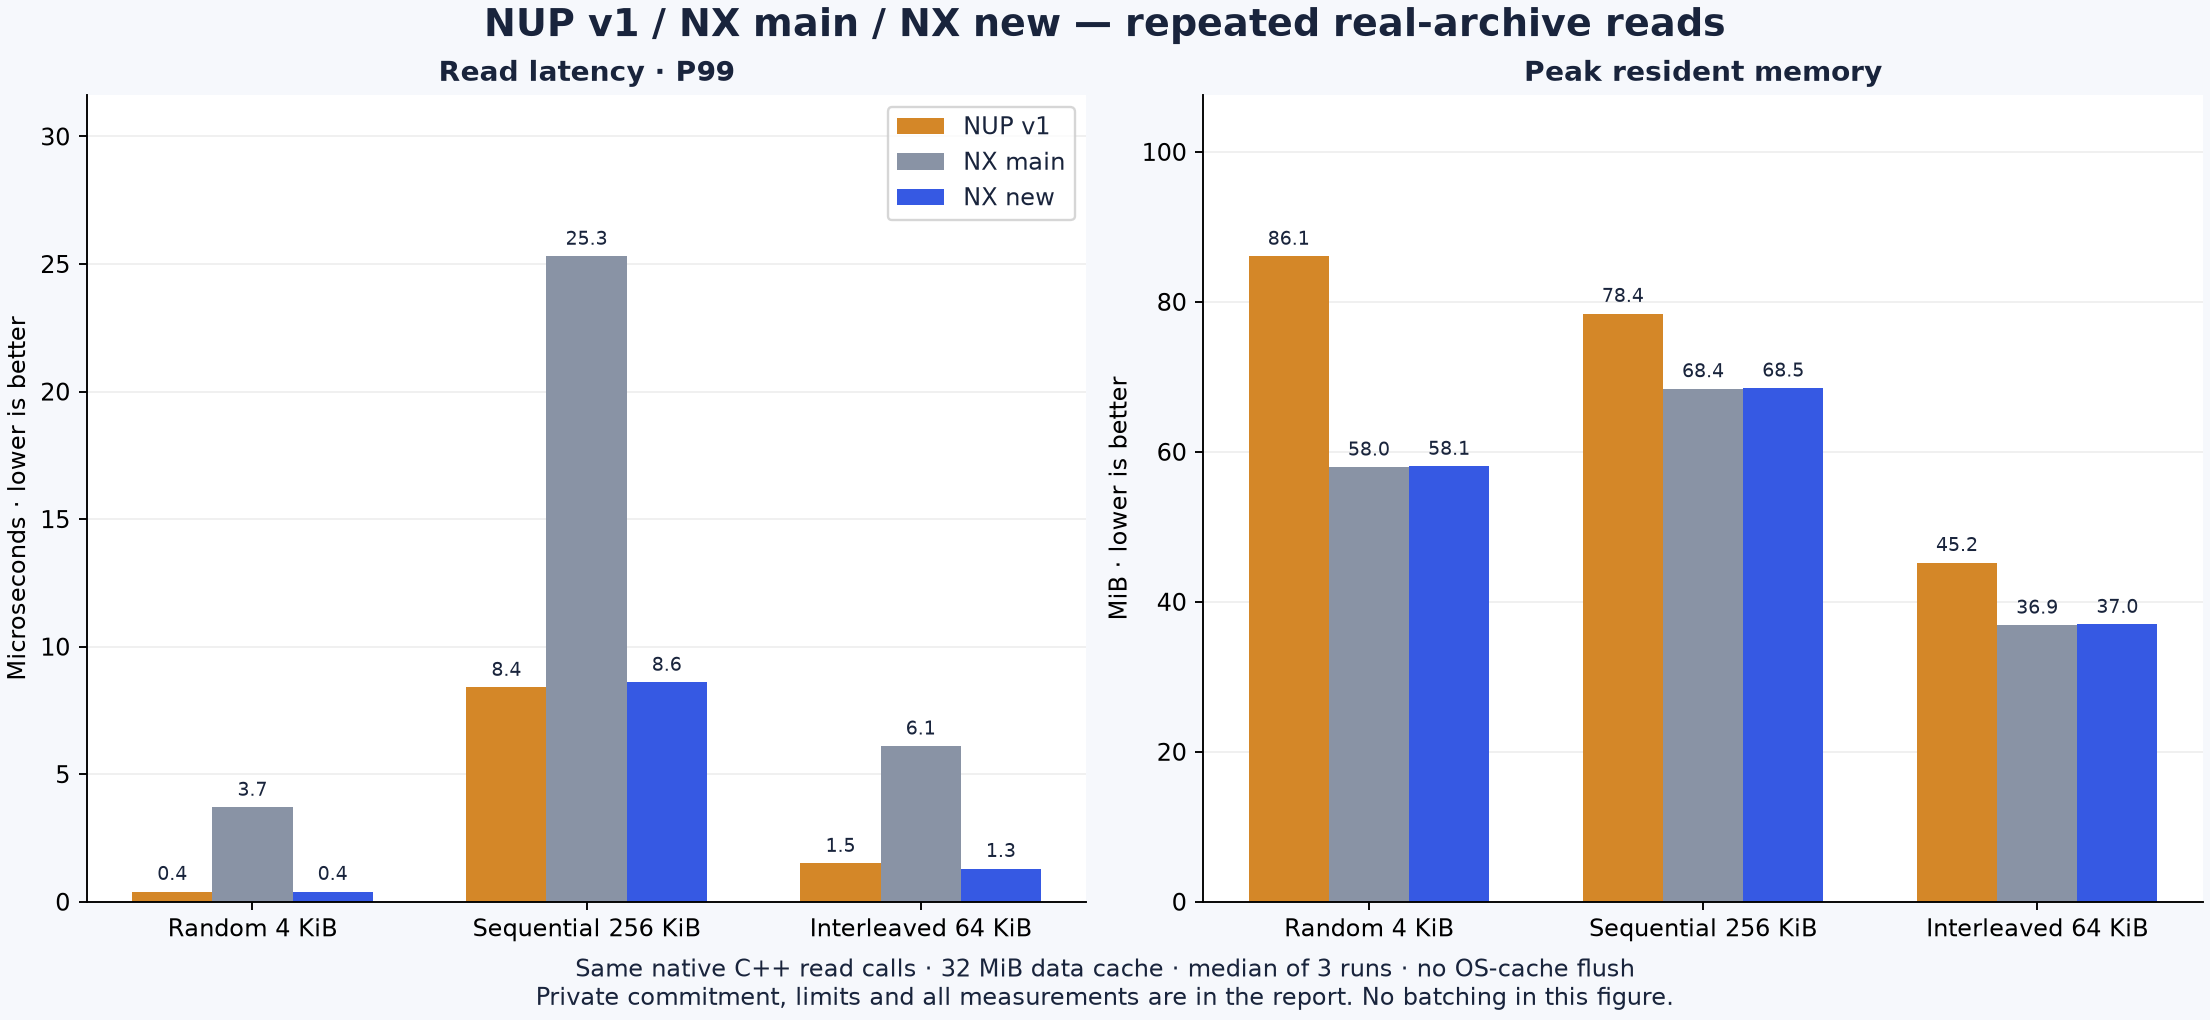
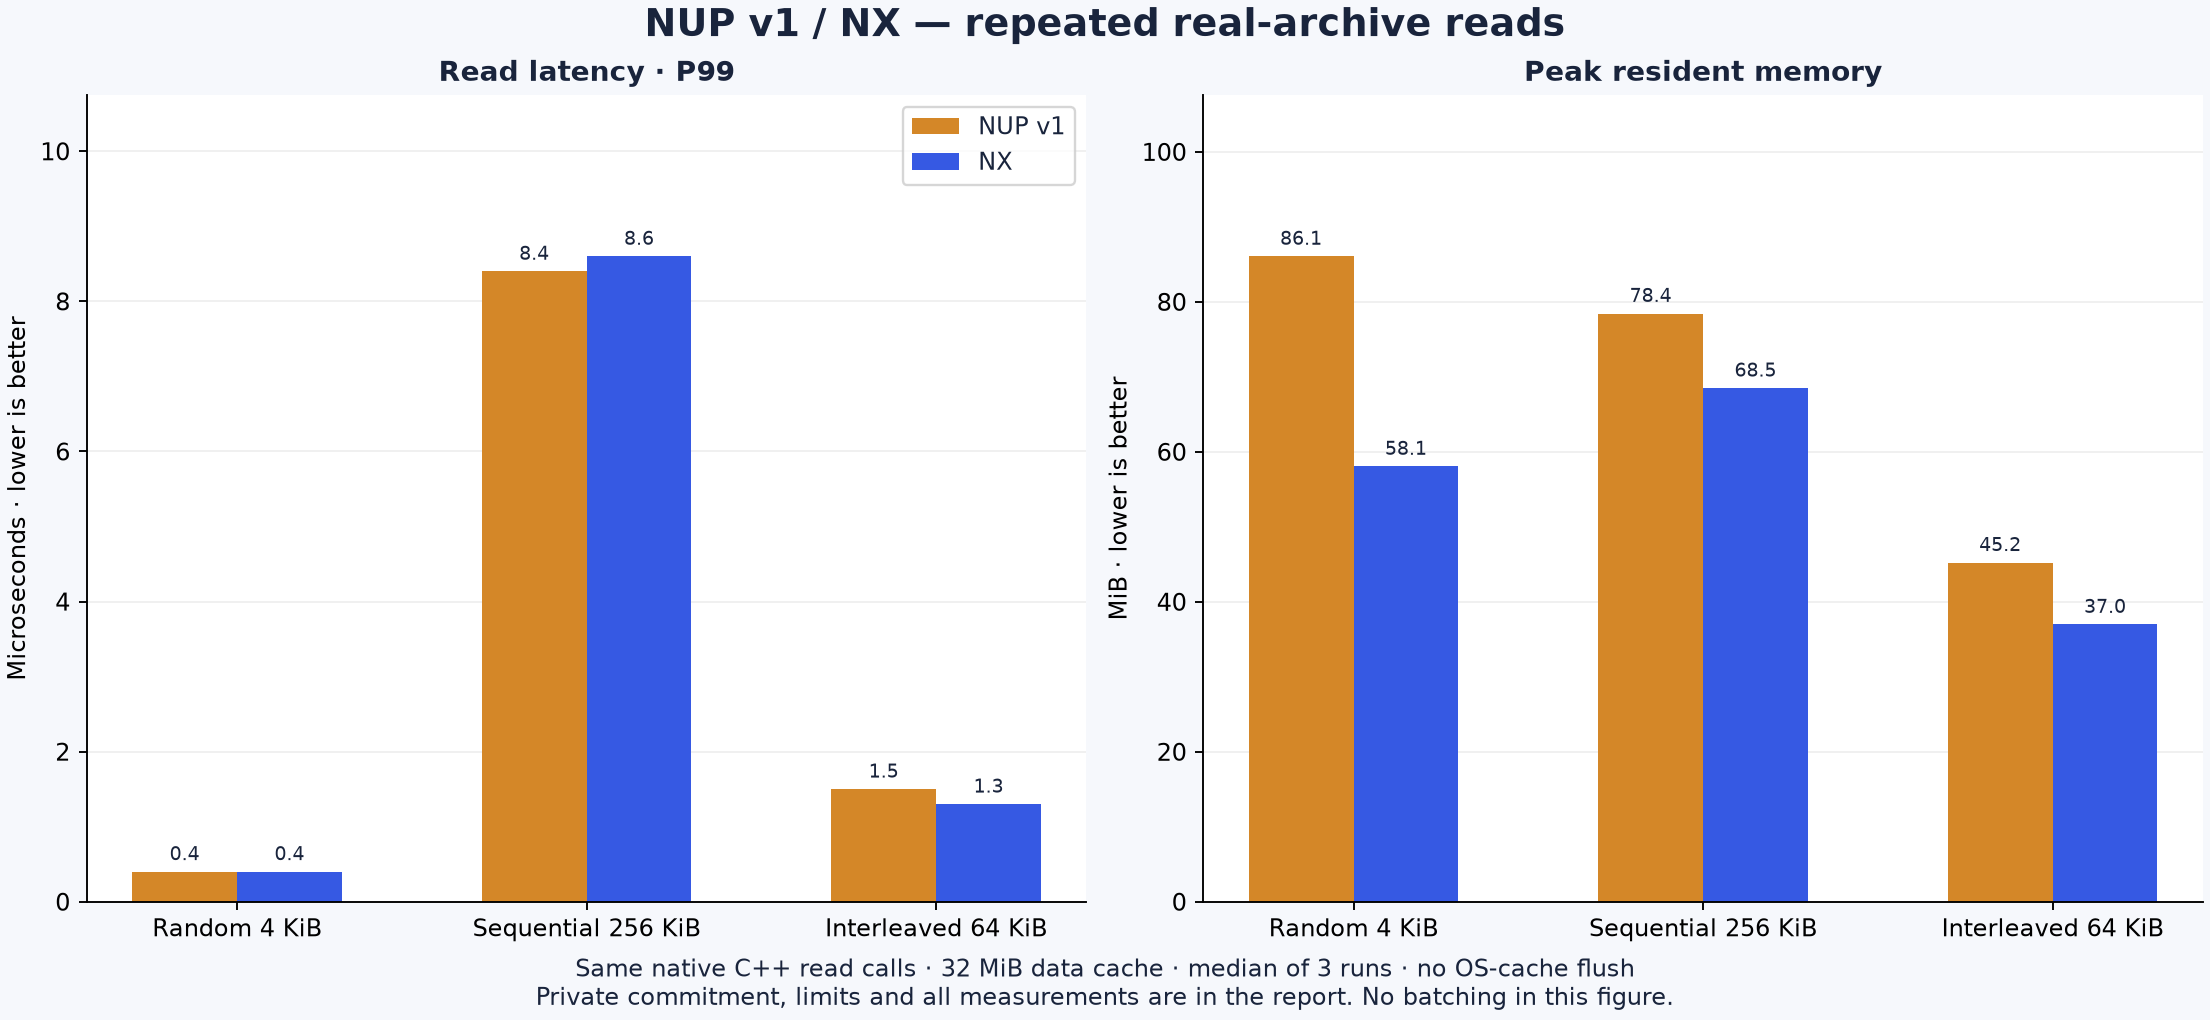
Present README charts as NUP v1 versus NX

diff --git a/benchmarks/publish_native_three_way.py b/benchmarks/publish_native_three_way.py
@@ -150,32 +150,32 @@ no emulator source, benchmark binary or game content is vendored in releases.
  plt.rcParams.update({'font.family':'DejaVu Sans','font.size':10,'text.color':'#19243C','axes.spines.top':False,'axes.spines.right':False,'figure.facecolor':'#F6F8FC','axes.facecolor':'white','savefig.facecolor':'#F6F8FC'})
  fig,axes=plt.subplots(1,2,figsize=(13,6),layout='constrained');scenarios=['random_4096','sequential_32mib','interleaved_8files'];names=['Random 4 KiB','Sequential 256 KiB','Interleaved 64 KiB']
  for ax,field,title,unit in zip(axes,('p99_us','peak_working_set'),('Read latency · P99','Peak resident memory'),('Microseconds','MiB')):
-  for j,(v,label) in enumerate(LABEL.items()):
+  for j,(v,label) in enumerate((('nup_mapped','NUP v1'),('nx_verify_mapped','NX'))):
    values=[get('real_A',sc,32,v)[field]/(2**20 if field=='peak_working_set' else 1) for sc in scenarios]
-   bars=ax.bar([i+(j-1)*.24 for i in range(3)],values,.24,label=label,color=COLORS[j]);ax.bar_label(bars,fmt='%.1f',padding=3,fontsize=8)
+   bars=ax.bar([i+(j-.5)*.3 for i in range(3)],values,.3,label=label,color=[COLORS[0],COLORS[2]][j]);ax.bar_label(bars,fmt='%.1f',padding=3,fontsize=8)
   ax.set_xticks(range(3),names);ax.set_title(title,fontweight='bold');ax.set_ylabel(unit+' · lower is better');ax.grid(axis='y',alpha=.2);ax.set_axisbelow(True);ax.margins(y=.25)
- axes[0].legend();fig.suptitle('NUP v1 / NX main / NX new — repeated real-archive reads',fontsize=16,fontweight='bold');fig.supxlabel('Same native C++ read calls · 32 MiB data cache · median of 3 runs · no OS-cache flush\nPrivate commitment, limits and all measurements are in the report. No batching in this figure.',fontsize=10);fig.savefig(out/'native-sdk-comparison.png',dpi=170);plt.close(fig)
+ axes[0].legend();fig.suptitle('NUP v1 / NX — repeated real-archive reads',fontsize=16,fontweight='bold');fig.supxlabel('Same native C++ read calls · 32 MiB data cache · median of 3 runs · no OS-cache flush\nPrivate commitment, limits and all measurements are in the report. No batching in this figure.',fontsize=10);fig.savefig(out/'native-sdk-comparison.png',dpi=170);plt.close(fig)
  fig,axes=plt.subplots(2,2,figsize=(13,8),layout='constrained');plotcases=[('first_touch4k',128,False,'8 first accesses · 4 KiB'),('random4k',128,True,'512 scattered reads · all files fit'),('sequential64k',32,False,'Sequential 32 MiB · initial'),('sequential64k',32,True,'Sequential 32 MiB · primed')]
  for ax,(sc,budget,warm,title) in zip(axes.flat,plotcases):
-  vals=[bg(sc,budget,warm,v)['service_ms'] for v in ('nup','main','selective')]
-  bars=ax.barh([0,1,2],vals,color=COLORS);ax.set_yticks([0,1,2],['NUP v1','NX main','NX new · selective']);ax.invert_yaxis()
+  vals=[bg(sc,budget,warm,v)['service_ms'] for v in ('nup','selective')]
+  bars=ax.barh([0,1],vals,color=[COLORS[0],COLORS[2]]);ax.set_yticks([0,1],['NUP v1','NX']);ax.invert_yaxis()
   ax.bar_label(bars,labels=[f'{v:.4f}' if v<1 else f'{v:.2f}' for v in vals],padding=5)
-  ax.set_xlim(0,max(vals)*1.25);ax.set_xlabel('Total read service · ms · lower is better');ratio=max(vals[0],vals[2])/min(vals[0],vals[2]);winner='NX new' if vals[2]<vals[0] else 'NUP v1';other='NUP v1' if vals[2]<vals[0] else 'NX new'
+  ax.set_xlim(0,max(vals)*1.25);ax.set_xlabel('Total read service · ms · lower is better');ratio=max(vals[0],vals[-1])/min(vals[0],vals[-1]);winner='NX' if vals[-1]<vals[0] else 'NUP v1';other='NUP v1' if vals[-1]<vals[0] else 'NX'
   gain=f'{ratio:.0f}' if ratio>=100 else f'{ratio:.1f}'
   ax.set_title(title+'  /  '+str(budget)+' MiB cache'+'\n'+winner+' ~'+gain+'× faster than '+other,fontsize=11,fontweight='bold');ax.grid(axis='x',alpha=.2);ax.set_axisbelow(True)
- fig.suptitle('Native readers with 16 already-pending requests',fontsize=17,fontweight='bold');fig.supxlabel('Median of 5 runs · NX new uses explicit selective batching; other readers use ordinary calls.\nReal content, generated traces. First-access selection includes RAW/Zstd policy differences. Each panel has its own scale.',fontsize=10);fig.savefig(out/'pending-batch-comparison.png',dpi=170);plt.close(fig)
+ fig.suptitle('Native readers with 16 already-pending requests',fontsize=17,fontweight='bold');fig.supxlabel('Median of 5 runs · NX uses explicit selective batching; NUP v1 uses ordinary calls.\nReal content, generated traces. First-access selection includes RAW/Zstd policy differences. Each panel has its own scale.',fontsize=10);fig.savefig(out/'pending-batch-comparison.png',dpi=170);plt.close(fig)
  fig,axes=plt.subplots(1,2,figsize=(13,6),layout='constrained')
  memcases=[('first_touch4k',128,False),('random4k',128,True),('sequential64k',32,False),('sequential64k',32,True)]
  names=['First accesses\n128 MiB cache','Scattered · cached\n128 MiB cache','Sequential · initial\n32 MiB cache','Sequential · cached\n32 MiB cache']
  for ax,field,title in zip(axes,('resident','private_commit'),('Peak resident memory','Peak private commitment')):
-  for j,(v,label) in enumerate(zip(('nup','main','selective'),('NUP v1','NX main','NX new'))):
+  for j,(v,label) in enumerate(zip(('nup','selective'),('NUP v1','NX'))):
    values=[bg(sc,budget,warm,v)[field]/2**20 for sc,budget,warm in memcases]
-   bars=ax.bar([i+(j-1)*.24 for i in range(4)],values,.24,label=label,color=COLORS[j])
+   bars=ax.bar([i+(j-.5)*.3 for i in range(4)],values,.3,label=label,color=[COLORS[0],COLORS[2]][j])
    ax.bar_label(bars,fmt='%.1f',padding=3,fontsize=8)
   ax.set_xticks(range(4),names,fontsize=8);ax.set_title(title,fontweight='bold');ax.set_ylabel('MiB · lower is better');ax.grid(axis='y',alpha=.2);ax.set_axisbelow(True);ax.margins(y=.2)
  axes[0].legend(fontsize=9)
  fig.suptitle('Memory on the same four read workloads',fontsize=17,fontweight='bold')
- fig.supxlabel('Median of 5 process peaks · same real archive and common output buffers · NX new uses selective batching.\nResident memory includes mapped file pages. Private commitment is not physical RAM.',fontsize=10)
+ fig.supxlabel('Median of 5 process peaks · same real archive and common output buffers · NX uses selective batching.\nResident memory includes mapped file pages. Private commitment is not physical RAM.',fontsize=10)
  fig.savefig(out/'pending-batch-memory.png',dpi=170);plt.close(fig)
  print('Published',len(rows),'sync and',len(brows),'batch configurations')
 if __name__=='__main__':main()

diff --git a/README.md b/README.md
@@ -80,41 +80,40 @@ NX reads independent blocks and reuses integrity checks for immutable data.
 This keeps small reads fast without caching whole decoded files.
 
 The comparison below uses **native C++ readers**, the same compiler, Zstd library
-and mapped input provider. **NX main** is `b6a9de8`; **NX new** is `5d4810a` with
-verification reuse and the explicit selective-batching prototype enabled.
+and mapped input provider. **NX** enables verification reuse and the explicit
+selective-batching prototype.
 Each reader receives the same **16 already-pending requests**, with no queue-fill
 wait. Values are medians of five runs on the same real archive.
 
-![Read performance: NUP v1, NX main and NX new](docs/benchmarks/three-way-reader-2026-11-15/pending-batch-comparison.png)
+![Read performance: NUP v1 and NX](docs/benchmarks/three-way-reader-2026-11-15/pending-batch-comparison.png)
 
 **Read time in milliseconds — lower is better.**
 
-| Workload | Cache budget | NUP v1 | NX main | NX new |
-|---|---:|---:|---:|---:|
-| 8 first accesses · 4 KiB | 128 MiB | 86.129 | 0.775 | **0.758** |
-| 512 scattered reads · all files cached | 128 MiB | **0.081** | 1.019 | 0.161 |
-| Sequential 32 MiB · first pass | 32 MiB | 26.989 | 12.321 | **9.418** |
-| Sequential 32 MiB · repeated pass | 32 MiB | 2.663 | 3.991 | **1.788** |
+| Workload | Cache budget | NUP v1 | NX |
+|---|---:|---:|---:|
+| 8 first accesses · 4 KiB | 128 MiB | 86.129 | **0.758** |
+| 512 scattered reads · all files cached | 128 MiB | **0.081** | 0.161 |
+| Sequential 32 MiB · first pass | 32 MiB | 26.989 | **9.418** |
+| Sequential 32 MiB · repeated pass | 32 MiB | 2.663 | **1.788** |
 
-NX new is about **6.3× faster than NX main** on the cached scattered-read trace.
-NUP v1 wins that trace, while NX uses much less memory. The targeted first-access
-case is about **114× faster than NUP v1**; this advantage is already largely
-present in NX main. It includes storage-policy differences: five requested NX
-starting blocks are RAW and three are Zstd, while all eight NUP files are compressed.
+NUP v1 wins the cached scattered-read trace, while NX uses much less memory.
+The targeted first-access case is about **114× faster than NUP v1**. It includes
+storage-policy differences: five requested NX starting blocks are RAW and three
+are Zstd, while all eight NUP files are compressed.
 
-![Memory usage: NUP v1, NX main and NX new](docs/benchmarks/three-way-reader-2026-11-15/pending-batch-memory.png)
+![Memory usage: NUP v1 and NX](docs/benchmarks/three-way-reader-2026-11-15/pending-batch-memory.png)
 
 **Peak resident / private memory in MiB — same workloads, lower is better.**
 
-| Workload | NUP v1 | NX main | NX new |
-|---|---:|---:|---:|
-| 8 first accesses | 222.3 / 134.5 | 33.9 / 17.7 | 33.9 / 17.6 |
-| 512 scattered reads · all files cached | 222.3 / 134.6 | 54.8 / 26.4 | 54.8 / 26.5 |
-| Sequential 32 MiB · first pass | 128.8 / 83.3 | 97.8 / 49.9 | 98.1 / 50.3 |
-| Sequential 32 MiB · repeated pass | 113.2 / 67.6 | 97.8 / 50.0 | 97.9 / 50.0 |
+| Workload | NUP v1 | NX |
+|---|---:|---:|
+| 8 first accesses | 222.3 / 134.5 | 33.9 / 17.6 |
+| 512 scattered reads · all files cached | 222.3 / 134.6 | 54.8 / 26.5 |
+| Sequential 32 MiB · first pass | 128.8 / 83.3 | 98.1 / 50.3 |
+| Sequential 32 MiB · repeated pass | 113.2 / 67.6 | 97.9 / 50.0 |
 
 On the cached scattered-read trace, **NUP v1 uses about 4.1× the resident memory**
-of NX new. NX new keeps memory close to NX main without an extra RAW payload cache.
+of NX. NX retains no additional RAW payload cache.
 
 These are generated access patterns on real content, not recorded gameplay or
 FPS measurements. The OS cache was not flushed. Memory includes common benchmark
@@ -125,6 +124,7 @@ an integration with pending requests; it is not automatically used by every read
 [Full results, direct-read controls, run ranges and method](docs/benchmarks/three-way-reader-2026-11-15/README.md)
 include 1,894 process runs, byte checks, RAW/mixed controls, other cache budgets,
 private/resident memory and NUP temporary-file usage.
+
 
 ## Developer integration
 
